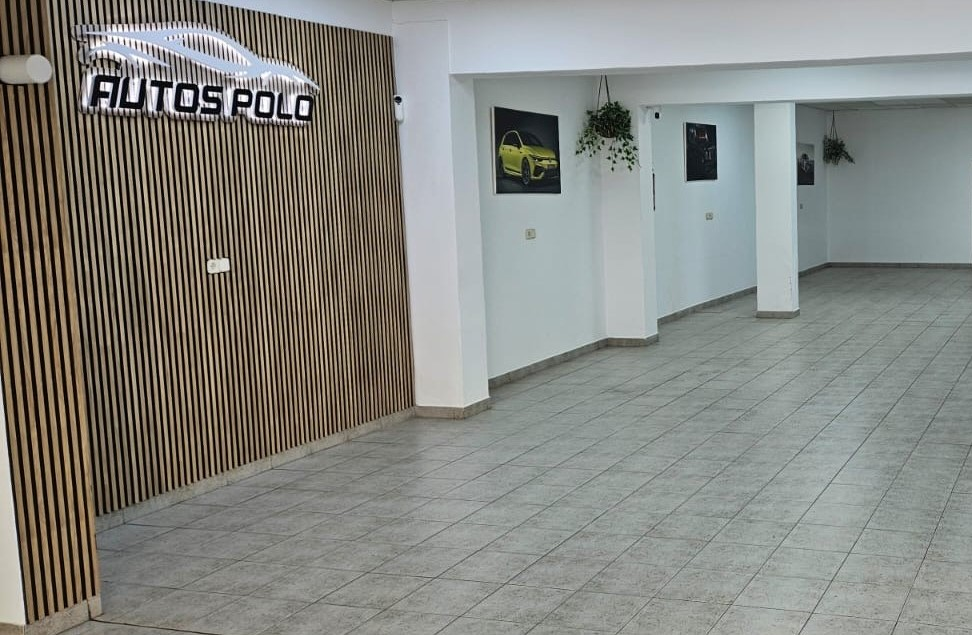
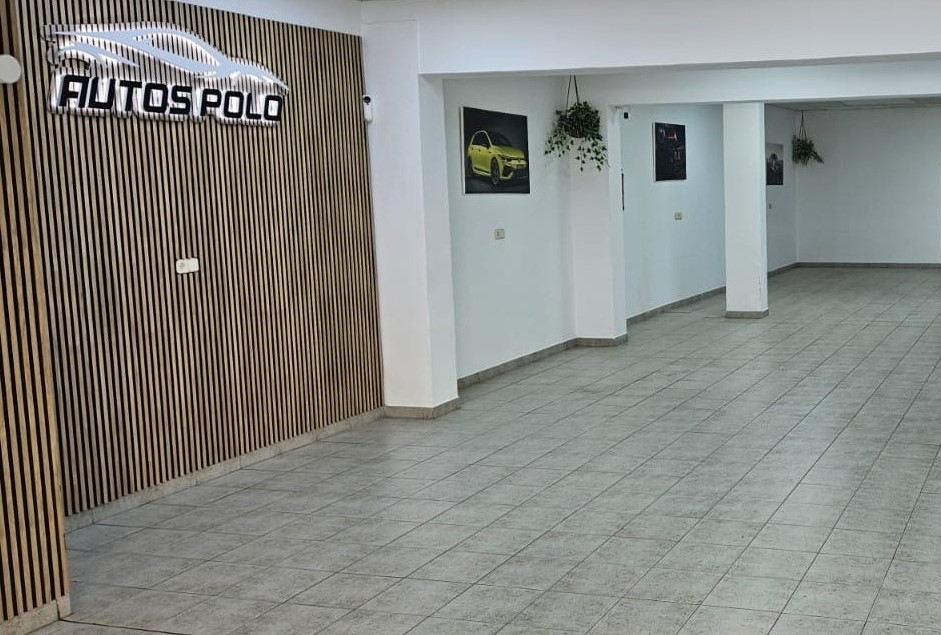
tablet about

diff --git a/src/Components/Home/About/About.jsx b/src/Components/Home/About/About.jsx
@@ -11,20 +11,22 @@ function About() {
     ]
   return (
     <div className='aboutHomeContainer'  id='about'>
-        <div className='aboutHomeOrange'>
+        <div className='aboutLocal'>
+            <div className='aboutHomeOrange'>
 
-            <h2>Sobre <br /> Autos Polo</h2>
-            
-            <p>En Autos Polo, nos dedicamos a ofrecerte la mejor experiencia en la compra de tu coche ideal. 
-                Contamos con una amplia variedad de coches y una red de atención que cubre todo el territorio español, 
-                desde Mallorca hasta Madrid, Valencia y más.
-            </p>
+                <h2>Sobre <br /> Autos Polo</h2>
+                
+                <p>En Autos Polo, nos dedicamos a ofrecerte la mejor experiencia en la compra de tu coche ideal. 
+                    Contamos con una amplia variedad de coches y una red de atención que cubre todo el territorio español, 
+                    desde Mallorca hasta Madrid, Valencia y más.
+                </p>
+            </div>
+            <img className='aboutPolo' src={local} alt="" />
         </div>
-        <img className='aboutPolo' src={local} alt="" />
 
         <div className='aboutHomeWhy'>
             <h3>¿Por qué elegirnos?</h3>
-            <div>
+            <div className='advantagesCardsBox'>
                 {
                     ventajas.map((e, i)=> {
                         return(

diff --git a/src/Components/Home/About/About.css b/src/Components/Home/About/About.css
@@ -65,4 +65,44 @@
 }
 .aboutPolo {
     width: 100%;
+    object-fit: cover;
+    object-position: left;
+}
+@media(min-width: 700px) {
+    .aboutHomeWhy {
+        padding: 50px;
+    }
+    .aboutLocal {
+        display: flex;
+    }
+    .aboutHomeOrange, .aboutPolo  {
+        width: 50%;
+    }
+
+    .advantagesCard {
+        width: 42vw;
+        margin: 10px 0;
+    }
+    .advantagesCardsBox {
+        display: flex;
+        flex-wrap: wrap;
+        justify-content: space-between;
+    }
+    .aboutMap {
+        width: 100%;
+        padding: 10px 50px;
+    }
+    .advantagesCard h4 {
+        font-size: 15px;
+    }
+    .advantagesCard p {
+        font-size: 12px;
+    } 
+    .advantagesCard img {
+        width: 42%;
+    }
+    .advantagesAbout {
+        width: 50%;
+        margin: 0 10px 0 0;
+    }
 }

diff --git a/src/Components/Home/Hero/Hero.css b/src/Components/Home/Hero/Hero.css
@@ -54,7 +54,7 @@
     .heroContainer h2 {
         font-size: 27px;
         font-weight: 600;
-        margin-left: 30px;
+        margin-left: 50px;
         margin-bottom: 0rem;
         margin-top: 0.8rem;
     }
@@ -64,10 +64,12 @@
         width: 33%;
         min-width: fit-content;
         padding: 12px 18px 12px 18px;
-        margin-left: 30px;
+        margin-left: 50px;
     }
     .h2Container {
         margin-bottom: 12rem;
-
+    }
+    .learnMore {
+        margin-bottom: 3em;
     }
 }

diff --git a/src/Components/Home/Starred/Starred.css b/src/Components/Home/Starred/Starred.css
@@ -47,6 +47,7 @@
 @media(min-width: 700px){
     .starredCarsContainer {    
         height: unset;
+        padding: 0 0px 20px 50px;
     }
     .starredCarsImg {
         height: 225px;

diff --git a/src/Components/Navbar/Navbar.css b/src/Components/Navbar/Navbar.css
@@ -43,6 +43,7 @@
 @media (min-width: 700px){
     .navbarContainer{
         height: 85px;
+        padding: 5px 50px;
     }
     .logoNavbar {
         width: 130px;
